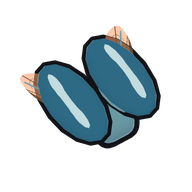
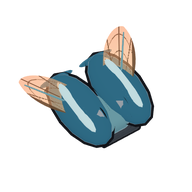
Wings: anchored mounts, bigger foil wing cases
- Grid-placed wings stand on a shoulder mount leaning into the body instead
  of a hub hovering in mid-air; stacked wings sit on a saddle.
- Foil wing cases larger and thicker, lying along the body; folded
  membranes stay larger so they peek out; glass wings a bit longer.
- Part icons and opponent portraits re-rendered.

Claude-Session: https://claude.ai/code/session_01FT8aJXgYMDZrr4uHJvcXkr

Changed region(s): [[0.0938, 0.125, 0.8438, 0.7812]]

diff --git a/src/render/models.ts b/src/render/models.ts
@@ -548,9 +548,19 @@ export function buildPart(partId: string, side: number, row = 0): PartModel {
     }
 
     case 'wings': {
-      // Root hub with motor caps.
-      root.add(at(shape(rbox(0.34, 0.24, 0.5, 0.1), dark), 0, 0.82, 0));
-      for (const d of sides) root.add(at(shape(cyl(0.09, 0.09, 0.08, 12), steel, 0.02).rotateZ(Math.PI / 2), 0.17 * d, 0.92, -0.04));
+      // On the grid (beside the body) the wing stands on a shoulder mount leaning into the
+      // body, so it's anchored rather than hovering; stacked on a body part it sits right on it.
+      const onGrid = side !== 0;
+      const hubX = onGrid ? -0.12 * side : 0;
+      const hubY = onGrid ? 0.78 : 0.82;
+      if (onGrid) {
+        root.add(at(shape(rbox(0.42, 0.46, 0.56, 0.14), gun), hubX * 0.6, 0.44, 0.02)); // shoulder
+        root.add(at(shape(rbox(0.3, 0.08, 0.44, 0.04), dark, 0.02), hubX * 0.6, 0.66, 0.02));
+        for (const dz of [-0.16, 0.16]) bolt(hubX * 0.6 + 0.2 * side, 0.5, dz);
+      }
+      root.add(at(shape(rbox(0.38, 0.24, 0.56, 0.1), dark), hubX, hubY, 0));
+      if (!onGrid) root.add(at(shape(rbox(0.56, 0.08, 0.66, 0.04), gun, 0.02), 0, hubY - 0.12, 0)); // saddle on the body
+      for (const d of sides) root.add(at(shape(cyl(0.1, 0.1, 0.09, 12), steel, 0.02).rotateZ(Math.PI / 2), hubX + 0.17 * d, hubY + 0.1, -0.04));
       const glassy = look === 1;
       const film = mat(0xffffff, { transparent: true, opacity: 1, map: wingTexture(glassy ? 'glass' : 'foil'), side: THREE.DoubleSide });
       const strut = mat(glassy ? 0x7fcbe6 : baseColor.clone().multiplyScalar(0.6));
@@ -561,9 +571,9 @@ export function buildPart(partId: string, side: number, row = 0): PartModel {
       for (const d of sides) {
         (glassy ? [-0.12, 0.18] : [0.02]).forEach((dz, k) => {
           const pivot = new THREE.Group();
-          pivot.position.set(0.16 * d, 0.96, dz);
-          const len = glassy ? (k === 0 ? 1.45 : 1.2) : 1.3;
-          const w = new THREE.Mesh(wingGeo(len, glassy ? 0.52 : 0.62, glassy ? 'g' : 'f'), film);
+          pivot.position.set(hubX + 0.16 * d, hubY + 0.14, dz);
+          const len = glassy ? (k === 0 ? 1.65 : 1.4) : 1.5;
+          const w = new THREE.Mesh(wingGeo(len, glassy ? 0.58 : 0.7, glassy ? 'g' : 'f'), film);
           if (d < 0) w.scale.x = -1;
           w.renderOrder = 2;
           pivot.add(w);
@@ -574,12 +584,14 @@ export function buildPart(partId: string, side: number, row = 0): PartModel {
         });
         if (!glassy) {
           // Beetle wing-case: a hard shell that lifts open to let the membrane beat.
+          // Lies along the body like a real beetle's, covering the folded membrane.
           const hinge = new THREE.Group();
-          hinge.position.set(0.08 * d, 1.0, -0.22);
-          const shell = shape(ellip(0.22, 0.08, 0.44), caseMat);
-          shell.position.set(0.16 * d, 0, 0.36);
+          hinge.position.set(hubX + 0.06 * d, hubY + 0.08, -0.3);
+          const shell = shape(ellip(0.3, 0.14, 0.62), caseMat);
+          shell.position.set(0.24 * d, 0, 0.5);
           hinge.add(shell);
-          hinge.add(at(new THREE.Mesh(ellip(0.06, 0.02, 0.32), light), 0.2 * d, 0.06, 0.36));
+          hinge.add(at(new THREE.Mesh(ellip(0.08, 0.03, 0.46), light), 0.3 * d, 0.11, 0.5)); // sheen stripe
+          hinge.add(at(new THREE.Mesh(ellip(0.25, 0.03, 0.05), caseMat), 0.24 * d, -0.02, 1.08)); // rolled tip
           root.add(hinge);
           shells.push({ g: hinge, d });
         }
@@ -595,8 +607,8 @@ export function buildPart(partId: string, side: number, row = 0): PartModel {
           // Foil membranes fold back under the cases at rest.
           if (!glassy) {
             const open = Math.min(1, beat * 1.6 + 0.08);
-            g.rotation.y = d * (-0.05 - (1 - open) * 1.15);
-            g.scale.setScalar(0.45 + open * 0.55);
+            g.rotation.y = d * (-0.05 - (1 - open) * 1.05);
+            g.scale.setScalar(0.7 + open * 0.3);
           }
         }
         for (const { g, d } of shells) {
